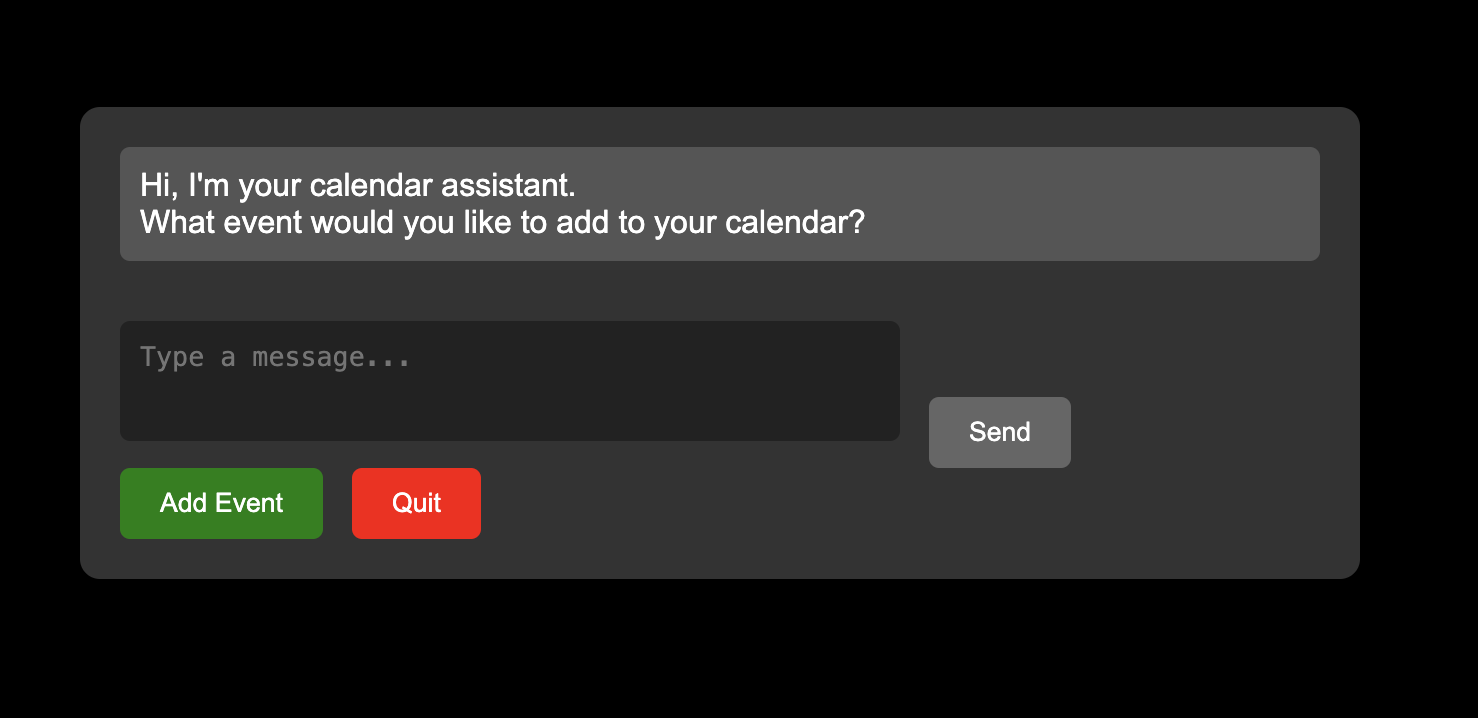
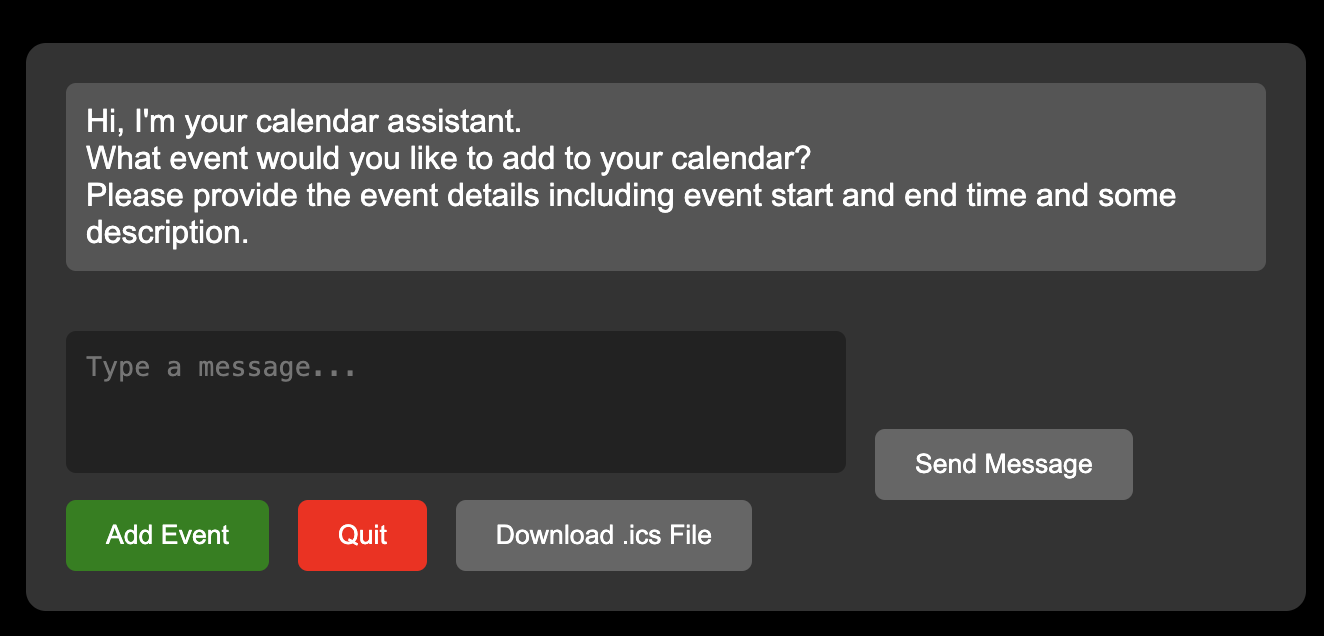
Update readme and minor changes

diff --git a/ai_planner/src/app.py b/ai_planner/src/app.py
@@ -16,7 +16,9 @@ conversations = [
     {
         "sender": "bot",
         "message": """Hi, I'm your calendar assistant.
-        What event would you like to add to your calendar?""",
+        What event would you like to add to your calendar?
+        Please provide the event details including event start and end time and some description.
+        """,
     }
 ]
 
@@ -39,7 +41,10 @@ def send_message():
 
     # Add processing message immediately
     conversations.append(
-        {"sender": "bot", "message": "Please wait while I process your response..."}
+        {
+            "sender": "bot",
+            "message": "Please wait while I am processing your request...",
+        }
     )
 
     global event
@@ -49,7 +54,7 @@ def send_message():
         bot_response = response
     else:
         event = None
-        bot_response = "I'm sorry, I didn't understand that. Could you please rephrase?"
+        bot_response = "I'm sorry, I didn't understand that. Could you please rephrase your request?"
 
     # Replace the processing message with the actual bot response
     conversations.pop()
@@ -60,7 +65,7 @@ def send_message():
         conversations.append(
             {
                 "sender": "bot",
-                "message": "Thank you for using the calendar assistant. Have a great day!",
+                "message": "Thank you for using aiplanner. Have a great day!",
             }
         )
 
@@ -70,7 +75,7 @@ def send_message():
 @app.route("/add_event", methods=["POST"])
 def add_event():
     # Sample prompt:
-    # I have a dentist appointment on 4th of June 2024 of 10:00 AM for 1 hour in Munich.
+    # Got have a dentist appointment on 26th of August 2024 of 10:00 AM for 1 hour in Berlin.
     global event
     if event:
         logger.info(f"Event has been extracted.")
@@ -89,6 +94,9 @@ def add_event():
                 pathlib.Path(__file__).parent.absolute(), "calendar.ics"
             )
         )
+        logger.info(
+            f"Calendar file created successfully on path: {os.path.join(pathlib.Path(__file__).parent.absolute(), 'calendar.ics')}"
+        )
     else:
         logger.info("No event data available to add to the calendar.")
 
@@ -98,16 +106,21 @@ def add_event():
 @app.route("/download", methods=["GET"])
 def download():
     # check if the calendar file exists
-    if not os.path.exists("calendar.ics"):
+    if not os.path.exists(pathlib.Path(__file__).parent.absolute() / "calendar.ics"):
         return "No calendar file found.", 404
-    return send_file("calendar.ics", as_attachment=True)
+    return send_file(
+        pathlib.Path(__file__).parent.absolute() / "calendar.ics", as_attachment=True
+    )
 
 
 @app.route("/quit", methods=["POST"])
 def quit():
     os.kill(os.getpid(), signal.SIGINT)
+    # delete the calendar file
+    if os.path.exists(pathlib.Path(__file__).parent.absolute() / "calendar.ics"):
+        os.remove(pathlib.Path(__file__).parent.absolute() / "calendar.ics")
     return "Server shutting down..."
 
 
 if __name__ == "__main__":
-    app.run(debug=True, host="0.0.0.0", port=5050)
+    app.run(host="0.0.0.0", port=5050)

diff --git a/README.md b/README.md
@@ -10,9 +10,55 @@
 
 # AI PLanner
 
-AIPlanner is a Python based tool for summarizing descriptions of events and adding them into a downloadable `.ics` file which can be then added to any calendar application (e.g. Google Calendar, Outlook, etc.). The tool uses a chat interface to interact with the user and extract the event's details. 
+AIPlanner is a Python based tool for summarizing long descriptions of events into a downloadable `.ics` file which can be then added to any calendar application (e.g. Google Calendar, Outlook, etc.). 
 
-At its core, the tool uses 2 main components:
+-------------------
+
+The tool uses a chat interface to interact with the user and extract the event's details. At its core, the tool uses 2 main components:
 
 1. [Ollama](https://ollama.com/) for natural language understanding. Generates responses and interacts with the user to extract info of the event to be added to the calendar.
 2. [Flask](https://flask.palletsprojects.com/en/2.0.x/) for the web interface. The user interacts with the tool through a web interface.
+
+
+## Usage and Interfacing
+
+1. The user interacts with the tool through a web interface. The tool asks the user for the event's details and the user responds with the details by inserting them in the chat and pressing `Send Message` button.
+
+<br>
+<p align="center">
+  <img src="docs/event_example_1.png" width="580" height="280">
+</p>
+
+2. After sending the details, the tool will process the user's input and extract the event's details. Then it will ask the user if the details are correct. The user can either confirm the details by pressing the `Add Event` button, or correct the details by **reproviding all the details** and **furthur details** in the chat and sending them by pressing the `Send Message` button. Below is an example of the tool's response after processing the user's input:
+
+<br>
+<p align="center">
+  <img src="docs/response_event_example_1.png" width="580" height="540">
+</p>
+
+3. If the user confirms the details, the tool will finalize the event and add it to the calendar `.ics` file. The user can download the `.ics` file by pressing the `Download .ics File` button. Below is an example of the `.ics` file that is generated by the tool:
+
+<br >
+
+```ics
+BEGIN:VCALENDAR
+VERSION:2.0
+PRODID:ics.py - http://git.io/lLljaA
+BEGIN:VEVENT
+DESCRIPTION:A dentist appointment scheduled for 26th of August 2024 at 10:00 AM for 1 hour in Berlin.
+DTEND:20240826T110000Z
+DTSTART:20240826T100000Z
+SUMMARY:Dentist appointment
+UID:fde1a775-46a8-4fa0-ae20-4ea837a77d86@fde1.org
+END:VEVENT
+END:VCALENDAR
+```
+<br >
+
+4. The `.ics` file can be added to any calendar application (e.g. Google Calendar, Outlook, etc.) by importing it. Below is an example of how the `.ics` file looks like when added to Calendar:
+
+
+<br>
+<p align="center">
+  <img src="docs/cal_event_created.png" width="280" height="310">
+</p>
